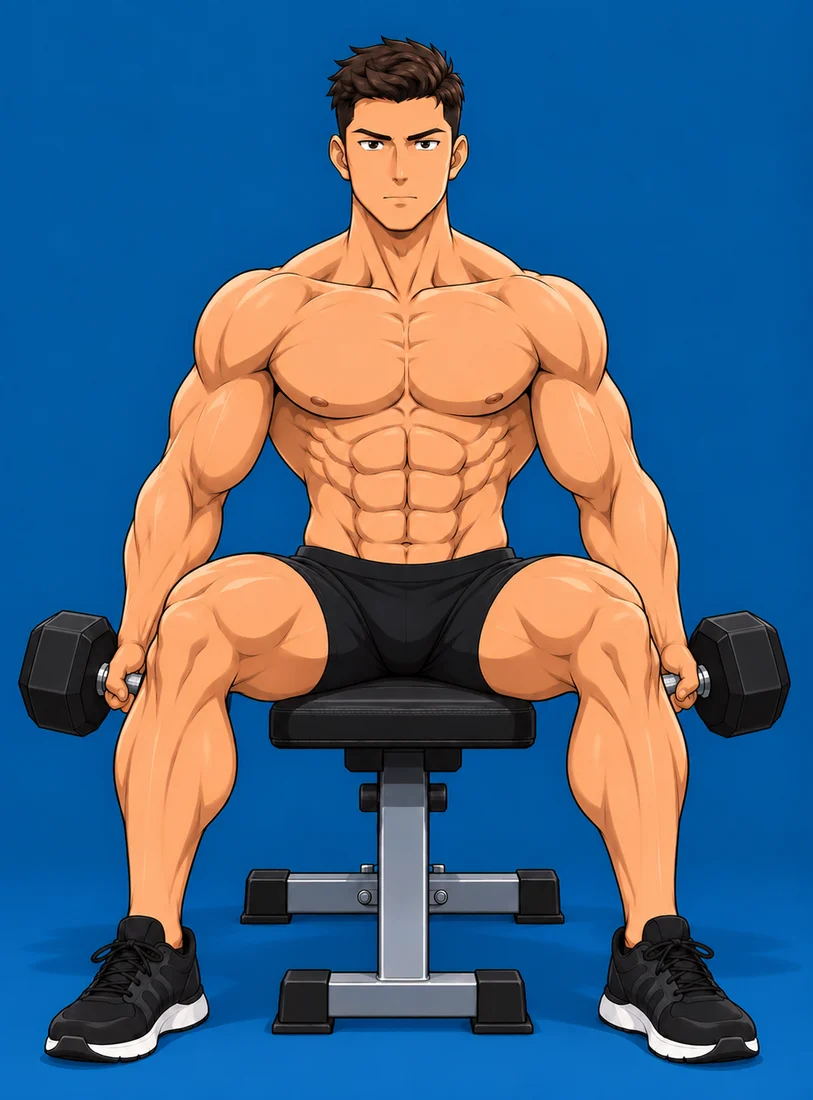
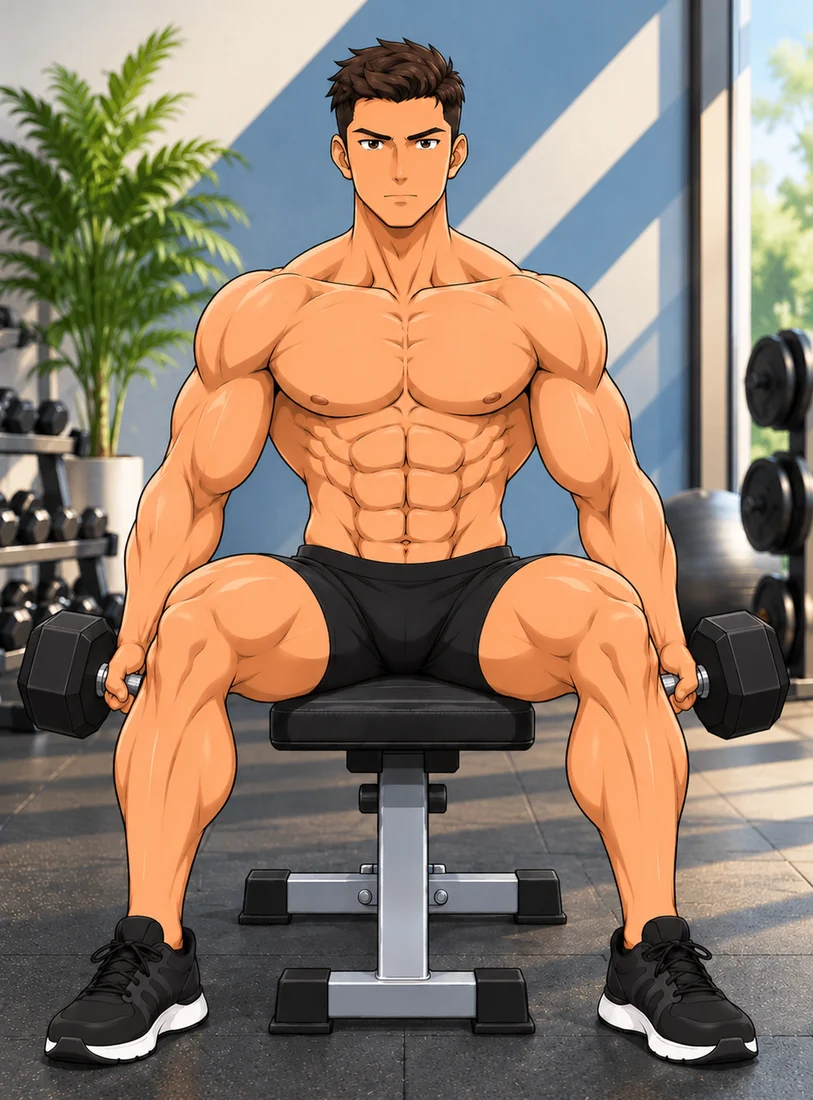
Replace Seated Dumbbell Biceps Curl art with gym-scene SLC1–SLC3
New source images are on a gym background and already pixel-aligned,
so the frames are used as-is. Frame URLs bumped to ?v=3 and
exercises.js to ?v=15 so cached copies refresh.

diff --git a/data/exercises.js b/data/exercises.js
@@ -39,7 +39,7 @@ window.EXERCISES = [
       "Take about 2–3 seconds to lower each rep.",
       "Breathe out as you curl up and in as you lower."
     ],
-    "animation": { "type": "frames", "src": "assets/exercises/seated-biceps-curl/{n}.webp?v=2", "frames": 3, "durations": [900, 550, 1000] }
+    "animation": { "type": "frames", "src": "assets/exercises/seated-biceps-curl/{n}.webp?v=3", "frames": 3, "durations": [900, 550, 1000] }
   },
   {
     "id": "seated-shoulder-press",

diff --git a/index.html b/index.html
@@ -50,7 +50,7 @@
     <symbol id="i-right" viewBox="0 0 24 24"><path d="M9.5 5.5 16 12l-6.5 6.5"/></symbol>
   </svg>
 
-  <script src="data/exercises.js?v=14"></script>
+  <script src="data/exercises.js?v=15"></script>
   <script src="js/app.js?v=7"></script>
 </body>
 </html>

diff --git a/CLAUDE.md b/CLAUDE.md
@@ -19,7 +19,7 @@ It is a static site: no build step, no framework and no dependencies (Google Fon
 - `css/styles.css` holds the components, followed by breakpoints: tablet ≤1024px, phone ≤639px and ≤380px. It ends with a reduced-motion block.
 - `data/exercises.js` is `window.EXERCISES = [...]`, the only content source. The array is plain JSON. It is a `.js` file rather than `.json` so the page also works when opened from the file system.
 - `js/app.js` contains the hash router, landing and detail renderers, the `createAnimation` component and the wake lock.
-- `assets/exercises/seated-shoulder-press/1..2.webp` are frames made from `Images/Sitting Pushing up/SPU1.jpg` and `SPU3.jpg` only (the user chose just these two). The source pictures are framed inconsistently (frame 3 is zoomed out), so they were aligned on the lower body and bench, re-based on frame 3 so its overhead dumbbells aren't cropped, then shrunk to 90% and centred for headroom, with the exposed edges filled with a backdrop built from blue background pixels only. Frames are shown with `object-fit: contain` and are never cropped. Append `?v=N` to an animation `src` whenever its images are regenerated under the same names. Do the same for future multi-image animations so the figure doesn't jump between frames. `seated-biceps-curl` (SLC1, SLC3, SLC2: down, mid, chest) needed no alignment. `seated-lateral-raise` (SS1–SS3) and `flat-dumbbell-bench-press` (LPU1–LPU2) were aligned the same way with a 0.9 zoom for margin. `lying-dumbbell-pullover` (BML1–BML2, which the user asked to call a triceps extension but which show a pullover) was aligned on the bench only (BML2 scaled ×1.09) because the artist drew the bench at different lengths. Its backdrop extends the frame's own edge pixels outward and blurs them, which hides the seam better than the averaged-blue backdrop when a frame shrinks a lot. Keep the feather where a shrunk frame meets its backdrop narrow (about 5px plus a 3px blur); a wide one fades dumbbells near the edges.
+- `assets/exercises/seated-shoulder-press/1..2.webp` are frames made from `Images/Sitting Pushing up/SPU1.jpg` and `SPU3.jpg` only (the user chose just these two). The source pictures are framed inconsistently (frame 3 is zoomed out), so they were aligned on the lower body and bench, re-based on frame 3 so its overhead dumbbells aren't cropped, then shrunk to 90% and centred for headroom, with the exposed edges filled with a backdrop built from blue background pixels only. Frames are shown with `object-fit: contain` and are never cropped. Append `?v=N` to an animation `src` whenever its images are regenerated under the same names. Do the same for future multi-image animations so the figure doesn't jump between frames. `seated-biceps-curl` (SLC1, SLC3, SLC2: down, mid, chest) needed no alignment. Since 2026-10-21 its frames are on a gym background instead of plain blue; they are already pixel-aligned, so they are used as-is (the blue-background alignment script would not work on them). `seated-lateral-raise` (SS1–SS3) and `flat-dumbbell-bench-press` (LPU1–LPU2) were aligned the same way with a 0.9 zoom for margin. `lying-dumbbell-pullover` (BML1–BML2, which the user asked to call a triceps extension but which show a pullover) was aligned on the bench only (BML2 scaled ×1.09) because the artist drew the bench at different lengths. Its backdrop extends the frame's own edge pixels outward and blurs them, which hides the seam better than the averaged-blue backdrop when a frame shrinks a lot. Keep the feather where a shrunk frame meets its backdrop narrow (about 5px plus a 3px blur); a wide one fades dumbbells near the edges.
 - `assets/guy/guy1..7.webp` are web-sized copies (max 1100px) of `Images/Guy/Guy1..7.png`. For now every exercise uses one of them as a still image (`"type": "image"`). When a real animation is added, use `"type": "frames"` or `"video"`.
 - `icons/` and `manifest.json` provide the Home Screen icon and name.
 - `Images/Guy/` holds the full-size source art. Regenerate `assets/guy/` from it when an image changes.
